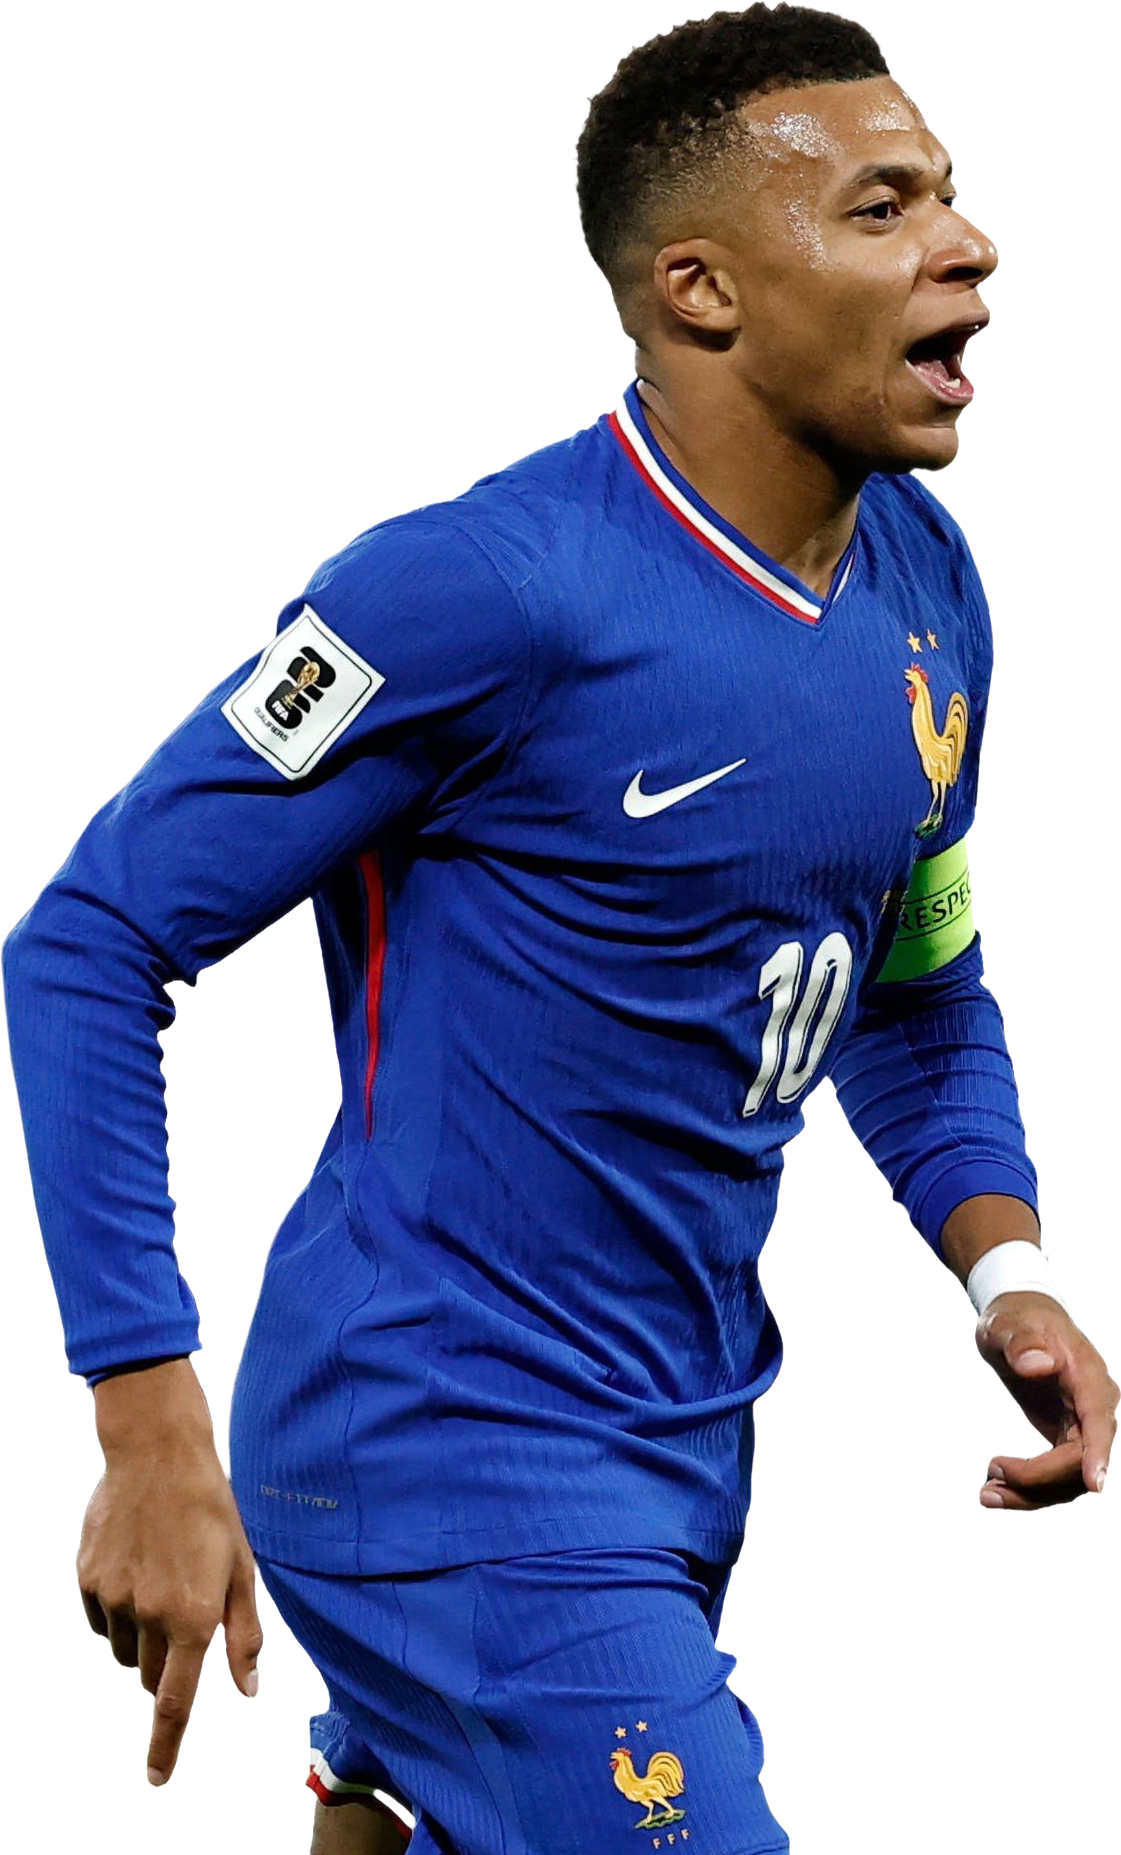
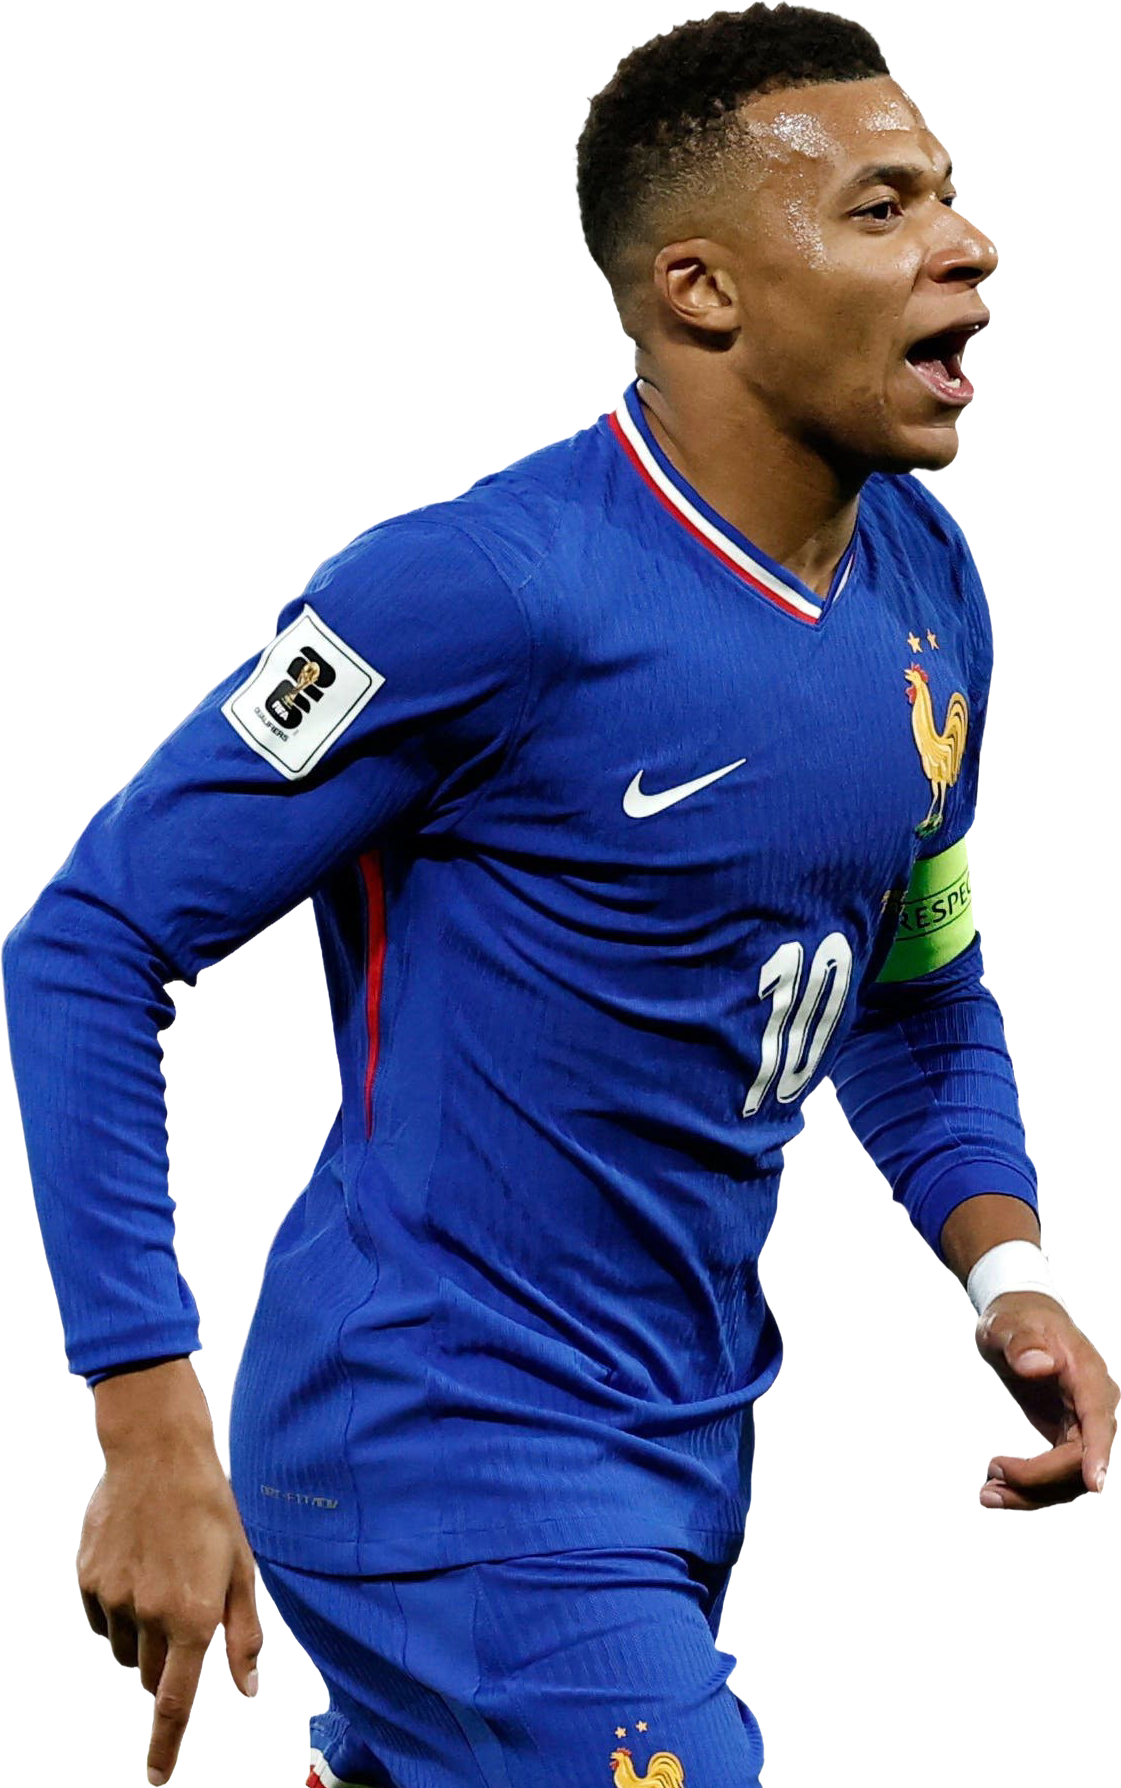
Reemontada Teutooona

diff --git a/frontend/js/ranking.js b/frontend/js/ranking.js
@@ -768,7 +768,7 @@ async function compartirRanking() {
     return `
 <div style="flex:1;display:flex;flex-direction:column;align-items:center;position:relative;min-width:0;">
     <!-- Card principal -->
-    <div style="width:100%;height:240px;background:${accentD[pos]};border:1px solid ${accentC[pos]}44;border-radius:10px;padding:10px 8px 50px 8px;box-sizing:border-box;display:flex;flex-direction:column;align-items:center;gap:4px;position:relative;overflow:visible;">
+    <div style="width:100%;height:280px;background:${accentD[pos]};border:1px solid ${accentC[pos]}44;border-radius:10px;padding:10px 8px 50px 8px;box-sizing:border-box;display:flex;flex-direction:column;align-items:center;gap:4px;position:relative;overflow:visible;">
         <!-- Borde superior de color -->
         <div style="position:absolute;top:0;left:0;right:0;height:3px;background:${accentC[pos]};border-radius:10px 10px 0 0;"></div>
         <!-- Badge posición -->
@@ -918,9 +918,9 @@ async function compartirRanking() {
             <!-- Glow detrás del jugador -->
             <div style="position:absolute;bottom:-20px;right:-10px;width:200px;height:280px;background:radial-gradient(ellipse at center, rgba(0,180,216,0.20) 0%, transparent 70%);z-index:2;"></div>
             <!-- Jugador -->
-            <img src="/img/diaz.png" alt="" style="position:absolute;bottom:0;right:-20px;height:300px;object-fit:contain;z-index:3;filter:drop-shadow(0 0 20px rgba(0,180,216,0.4)) drop-shadow(2px 2px 0 rgba(0,0,0,0.9));" crossorigin="anonymous"/>
+            <img src="/img/diaz.png" alt="" style="position:absolute;bottom:0;right:-20px;height:300px;object-fit:contain;z-index:4;filter:drop-shadow(0 0 20px rgba(0,180,216,0.4)) drop-shadow(2px 2px 0 rgba(0,0,0,0.9));" crossorigin="anonymous"/>
             <!-- Gradiente sobre jugador -->
-            <div style="position:absolute;inset:0;background:linear-gradient(105deg, rgba(6,13,24,0.98) 0%, rgba(6,13,24,0.85) 45%, rgba(6,13,24,0.0) 100%);z-index:4;border-radius:12px;overflow:hidden;"></div>
+            <div style="position:absolute;inset:0;background:linear-gradient(105deg, rgba(6,13,24,0.98) 0%, rgba(6,13,24,0.85) 45%, rgba(6,13,24,0.0) 100%);z-index:3;border-radius:12px;overflow:hidden;"></div>
             <!-- Textos hero -->
             <div style="position:absolute;top:0;left:0;right:0;bottom:0;z-index:5;padding:18px 20px;display:flex;flex-direction:column;justify-content:flex-end;">
                 <div style="display:inline-flex;align-items:center;gap:5px;background:${C.cyan};color:#000;font-size:9px;font-weight:800;letter-spacing:2.5px;padding:3px 8px;border-radius:3px;margin-bottom:8px;width:fit-content;font-family:'Yolk',Arial,sans-serif;">🏆 RANKING</div>
@@ -930,7 +930,7 @@ async function compartirRanking() {
                 <div style="font-size:10px;color:rgba(255,255,255,0.4);letter-spacing:1.5px;margin-top:8px;font-family:'Yolk',Arial,sans-serif;">${fechaFormateada}</div>
             </div>
             <!-- Borde superior cian -->
-            <div style="position:absolute;top:0;left:0;right:0;height:2px;background:linear-gradient(90deg, ${C.cyan}, transparent);z-index:1;"></div>
+            <div style="position:absolute;top:0;left:0;right:0;height:2px;background:linear-gradient(90deg, ${C.cyan}, transparent);z-index:3;"></div>
         </div>
 
         <!-- LÍDERES -->

diff --git a/frontend/js/index.js b/frontend/js/index.js
@@ -12,9 +12,9 @@ let filtroActual = 'todas';
 // ===============================================
 
 const LV_ESTADIOS = [
-  { img:"https://digitalhub.fifa.com/transform/844dcdb4-f38a-4187-b536-c40f87dbfad1/Belgium-v-Senegal-Round-Of-32-FIFA-World-Cup-2026?focuspoint=0.52,0.39&io=transform:fill,aspectratio:4x3,width:240&quality=75", badge:"Remontada Epica", fact:"Bélgica logra una remontada épica ante Senegal en el último minuto" },
-  { img:"https://digitalhub.fifa.com/transform/a3421df2-287a-4756-b4bb-97362e7da03d/France-v-Sweden-Round-Of-32-FIFA-World-Cup-2026?focuspoint=0.45,0.46&io=transform:fill,aspectratio:4x3,width:640&quality=75", badge:"Mbappe", fact:"Mbappé y Messi lideran la carrera por la Bota de Oro adidas" },
-  { img:"https://digitalhub.fifa.com/transform/8f72e1a7-33ac-495c-9a75-aed4b9539b31/Uzbekistan-v-Colombia-Group-K-FIFA-World-Cup-2026?&io=transform:fill,aspectratio:4x3,width:640&quality=75", badge:"Luis Diaz", fact:"Luis Díaz está entre los futbolistas más destacados de este duelo de 16avos de la Copa Mundial" },
+  { img:"https://digitalhub.fifa.com/transform/5fe0133d-a74f-4aa7-adc9-e9ae46eadbf1/Portugal-v-Croatia-Round-of-32-FIFA-World-Cup-2026?focuspoint=0.48,0.41&io=transform:fill,width:1024&quality=75", badge:"Remontada Epica", fact:"Cristiano Ronaldo anotó su primer gol en una fase eliminatoria de la Copa Mundial." },
+  { img:"https://digitalhub.fifa.com/transform/a3421df2-287a-4756-b4bb-97362e7da03d/France-v-Sweden-Round-Of-32-FIFA-World-Cup-2026?focuspoint=0.45,0.46&io=transform:fill,aspectratio:4x3,width:640&quality=75", badge:"Bota de Oro Adidas", fact:"Mbappé y Messi lideran la carrera por la Bota de Oro adidas" },
+  { img:"https://digitalhub.fifa.com/transform/ef919097-5479-475a-a97a-3c14730c342b/Spain-v-Austria-Round-of-32-FIFA-World-Cup-2026?focuspoint=0.56,0.55&io=transform:fill,width:1024&quality=75", badge:"Record Historico", fact:"Unai Simón igualó el récord de Walter Zenga de cinco partidos consecutivos sin recibir goles" },
   { img:"https://digitalhub.fifa.com/transform/6678e88a-27cf-480c-a714-fa10a4ba720e/Norway-v-Senegal-Group-I-FIFA-World-Cup-2026?focuspoint=0.48,0.23&io=transform:fill,height:910,width:1536&quality=75", badge:"Vikingo", fact:"Haaland, el delantero nórdico lleva más goles que partidos con su Selección" },
 ];
 
